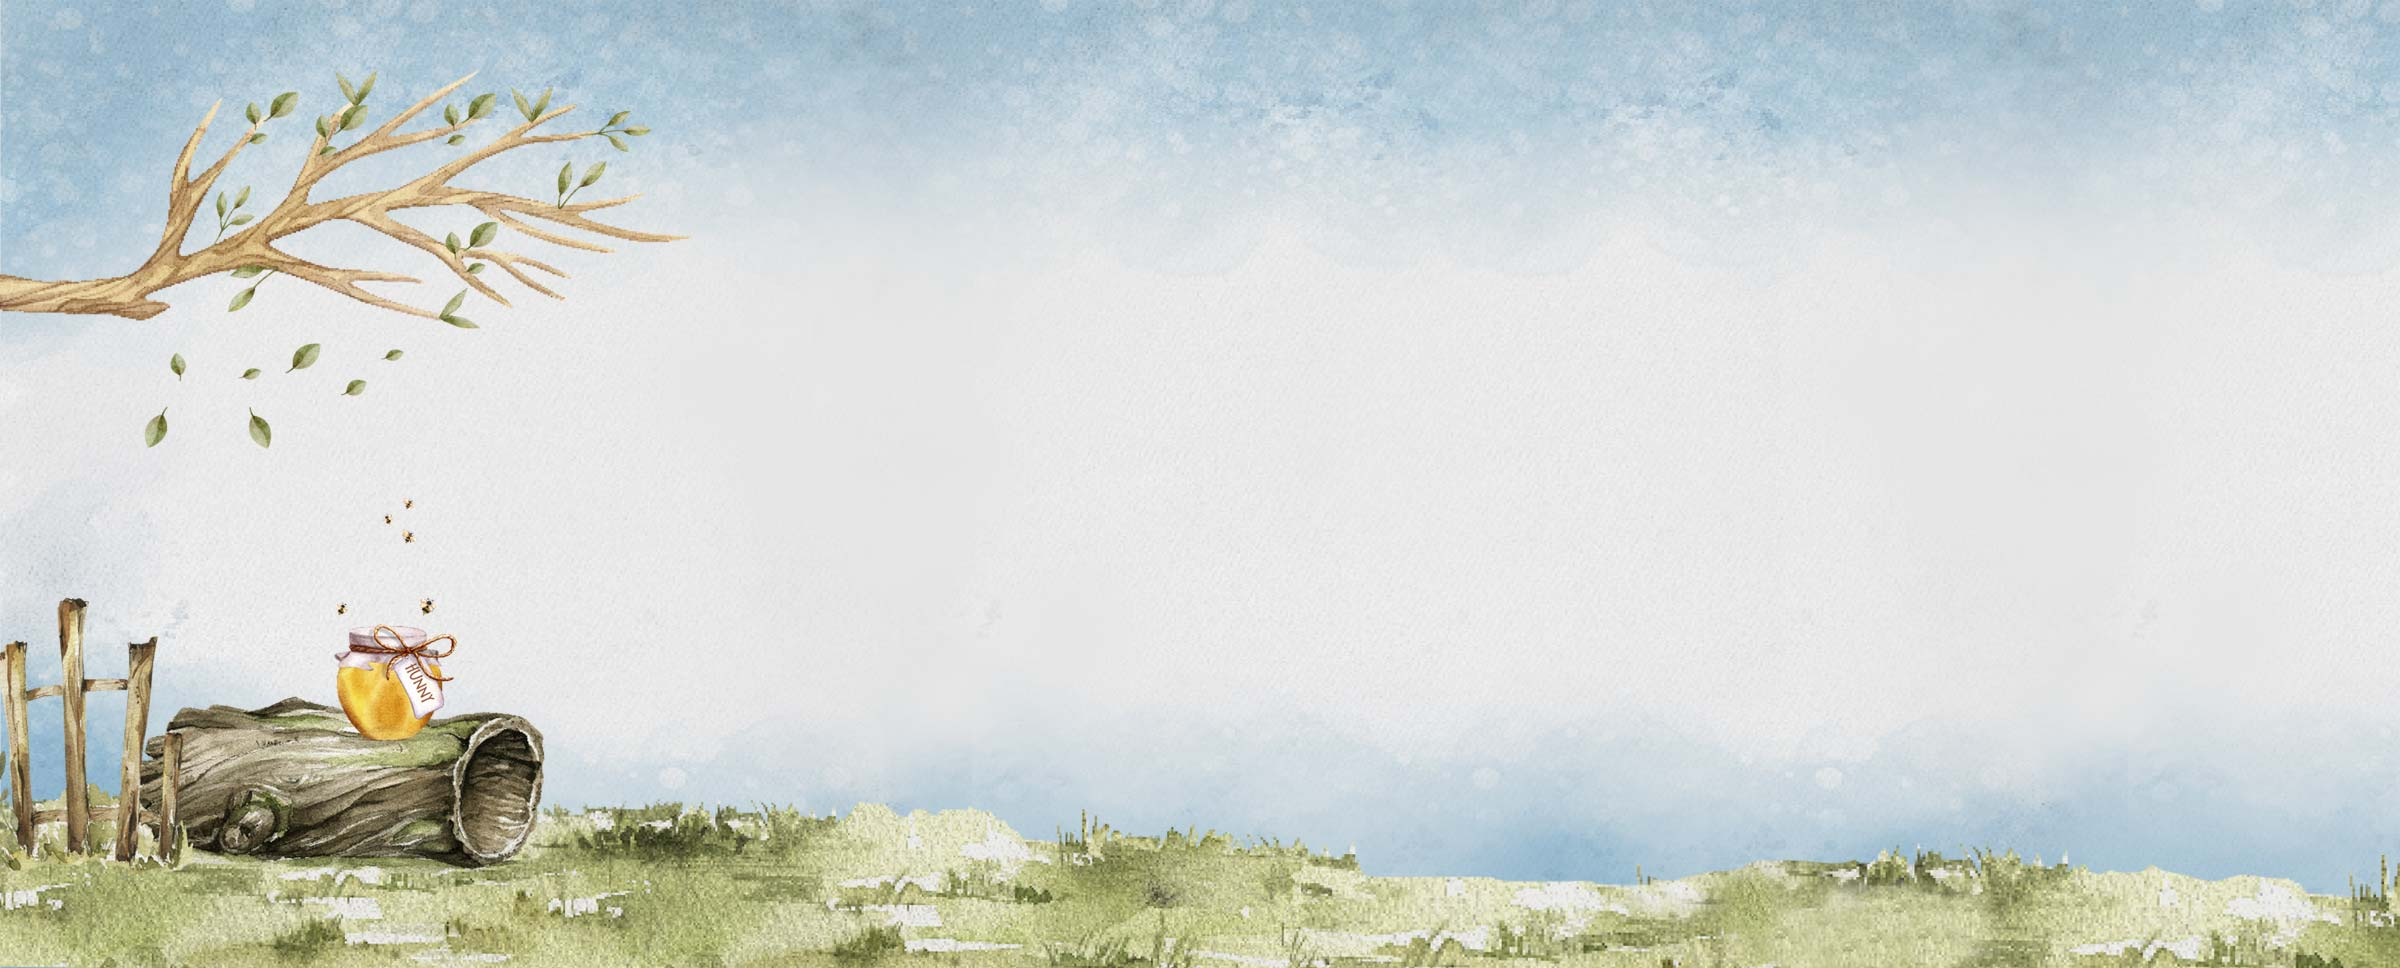
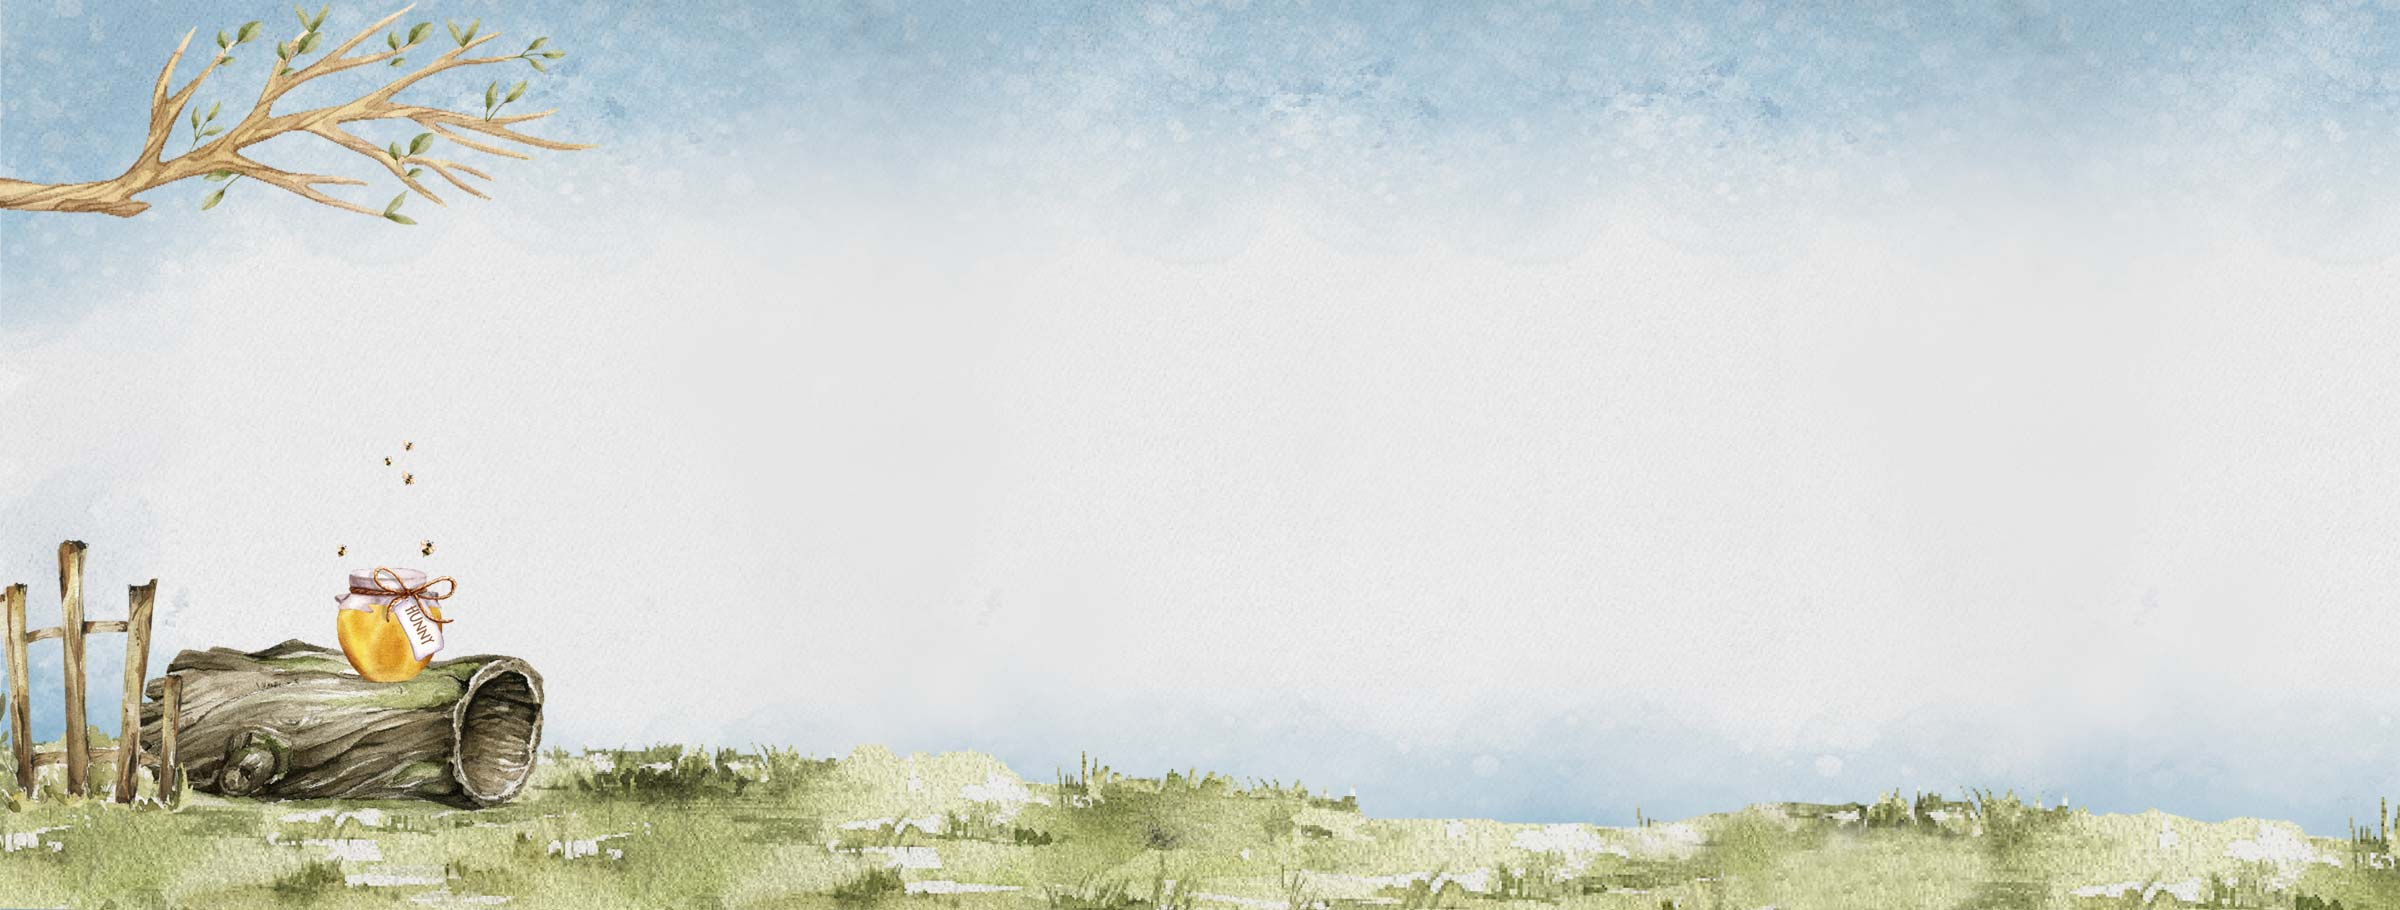
working leaves

diff --git a/storybook-holiday/new.html b/storybook-holiday/new.html
@@ -126,14 +126,32 @@ h4.strawberry {
 }
 .custom-container {
     display: flex;
-	justify-content: flex-end;
+    justify-content: flex-end;
     text-align: center;
     color: #000;
 }
 .info-wrapper {
-	max-width: 545px;
-	margin-right: 6%;
-	padding: 220px 15px 180px;
+    max-width: 545px;
+    margin-right: 6%;
+    padding: 240px 15px 180px;
+}
+.leaves-one {
+    min-height: 475px;
+    background: transparent url("leaves-one.png") top left repeat-x;
+    animation: blow 6s linear infinite;
+}
+.leaves-two {
+    min-height: 475px;
+    background: transparent url("leaves-two.png") top left repeat-x;
+    animation: blow 7.5s linear infinite;
+}
+@keyframes blow {
+from {
+background-position: -1200px 0;
+}
+to {
+background-position: 0 0;
+}
 }
 </style>
 <!-- InstanceEndEditable -->
@@ -307,17 +325,23 @@ height="0" width="0" style="display:none;visibility:hidden"></iframe>
   <div id="general-alert" style="display:none;"></div>
   <!-- InstanceBeginEditable name="Content" -->
   <div class="row background-row">
-    <div class="custom-container"><div class="info-wrapper">
-      <h1 class="times-font">Silly Old Bear's</h1>
-      <h1 class="strawberry">Blustery Day</h1>
-      <h4 class="strawberry">A Storybook Holiday</h4>
-      <h4 class="times-font black text-uppercase padding-top-15">Sunday, March 26, 8-11AM, Highlands Ranch</h4>
-      <h5 class="black text-uppercase font-weight-400 margin-bottom-5">Tickets: $20 Adults, $15 Ages 3-13</h5>
-      <div><i>Ages 0-2 free with paying adult</i></div>
-      <div class="padding-top-15">Celebrate spring with Winnie the Pooh and friends! Kids can enjoy a Pooh-themed puppet show, crafts, and activities, and hunt for Kanga, Roo, and Piglet in the Hundred Acre Wood. Costumes are encouraged! A delicious catered brunch will also be served.</div>
-      <div class="padding-top-20 margin-bottom-20"><a href="https://www.eventbrite.com/e/a-storybook-holiday-silly-old-bears-blustery-day-tickets-515064520847" target="_blank" class="btn btn-lg btn-primary custom">Buy Tickets</a></div>
-      <!--<div class="max-width-30"><i>Adults ages 21+ may enjoy a selection of mimosas with the purchase of an alcohol wristband for an additional $12. </i></div>--> 
-    </div></div>
+    <div class="leaves-one">
+      <div class="leaves-two">
+        <div class="custom-container">
+          <div class="info-wrapper">
+            <h1 class="times-font">Silly Old Bear's</h1>
+            <h1 class="strawberry">Blustery Day</h1>
+            <h4 class="strawberry">A Storybook Holiday</h4>
+            <h4 class="times-font black text-uppercase padding-top-15">Sunday, March 26, 8-11AM, Highlands Ranch</h4>
+            <h5 class="black text-uppercase font-weight-400 margin-bottom-5">Tickets: $20 Adults, $15 Ages 3-13</h5>
+            <div><i>Ages 0-2 free with paying adult</i></div>
+            <div class="padding-top-15">Celebrate spring with Winnie the Pooh and friends! Kids can enjoy a Pooh-themed puppet show, crafts, and activities, and hunt for Kanga, Roo, and Piglet in the Hundred Acre Wood. Costumes are encouraged! A delicious catered brunch will also be served.</div>
+            <div class="padding-top-20 margin-bottom-20"><a href="https://www.eventbrite.com/e/a-storybook-holiday-silly-old-bears-blustery-day-tickets-515064520847" target="_blank" class="btn btn-lg btn-primary custom">Buy Tickets</a></div>
+            <!--<div class="max-width-30"><i>Adults ages 21+ may enjoy a selection of mimosas with the purchase of an alcohol wristband for an additional $12. </i></div>--> 
+          </div>
+        </div>
+      </div>
+    </div>
   </div>
   <!-- InstanceEndEditable --> </div>
 <div class="row no-margin bg-gray-10">
